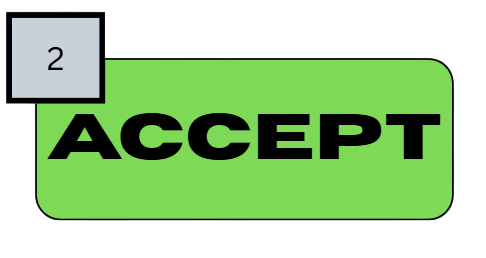
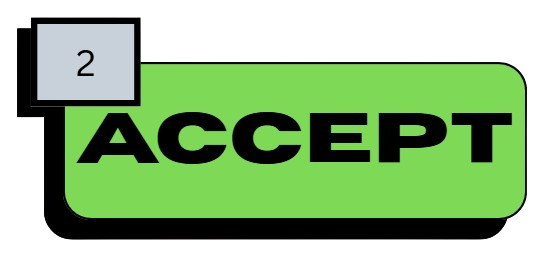
Started working on main loop

Changed region(s): [[0.0, 0.031, 0.9877, 0.9302]]

diff --git a/Rooms/GamePlay.py b/Rooms/GamePlay.py
@@ -1,13 +1,17 @@
 from GameFrame import Level
 from Objects import Deny
 from Objects.Accept import Accept
+from Objects.GoodTest import GoodTest
 
 class GamePlay(Level):
     def __init__(self, screen, joysticks):
         Level.__init__(self, screen, joysticks)
 
         # add accept object
-        self.add_room_object(Accept(self, 440, 600))
+        self.add_room_object(Accept(self, 440, 650))
 
         # add deny object
-        self.add_room_object(Deny(self, 10, 600))
+        self.add_room_object(Deny(self, 10, 650))
+
+        #add good test object
+        self.add_room_object(GoodTest(self, 5, 10))

diff --git a/Objects/GoodTest.py b/Objects/GoodTest.py
@@ -1,0 +1,12 @@
+from GameFrame import RoomObject
+
+class GoodTest(RoomObject):
+    """
+    The object for displaying the good email
+    """
+    def __init__(self, room, x, y):
+        RoomObject.__init__(self, room, x, y)
+
+        # set image
+        image = self.load_image("GoodTest.png")
+        self.set_image(image,784,1123)

diff --git a/Objects/Accept.py b/Objects/Accept.py
@@ -2,7 +2,7 @@ from GameFrame import RoomObject
 
 class Accept(RoomObject):
     """
-    The object for displaying the title
+    The object for displaying the Accept button
     """
     def __init__(self, room, x, y):
         RoomObject.__init__(self, room, x, y)

diff --git a/Objects/Deny.py b/Objects/Deny.py
@@ -2,7 +2,7 @@ from GameFrame import RoomObject
 
 class Deny(RoomObject):
     """
-    The object for displaying the title
+    The object for displaying the deny button
     """
     def __init__(self, room, x, y):
         RoomObject.__init__(self, room, x, y)

diff --git a/GameFrame/Globals.py b/GameFrame/Globals.py
@@ -22,7 +22,7 @@ class Globals:
     running = True
     FRAMES_PER_SECOND = 30
 
-    SCREEN_WIDTH = 1280
+    SCREEN_WIDTH = 1480
     SCREEN_HEIGHT = 800
 
     SCORE = 0

diff --git a/Objects/__init__.py b/Objects/__init__.py
@@ -1,3 +1,4 @@
 from Objects.Title import Title
 from Objects.Accept import Accept
 from Objects.Deny import Deny
+from Objects.GoodTest import GoodTest
